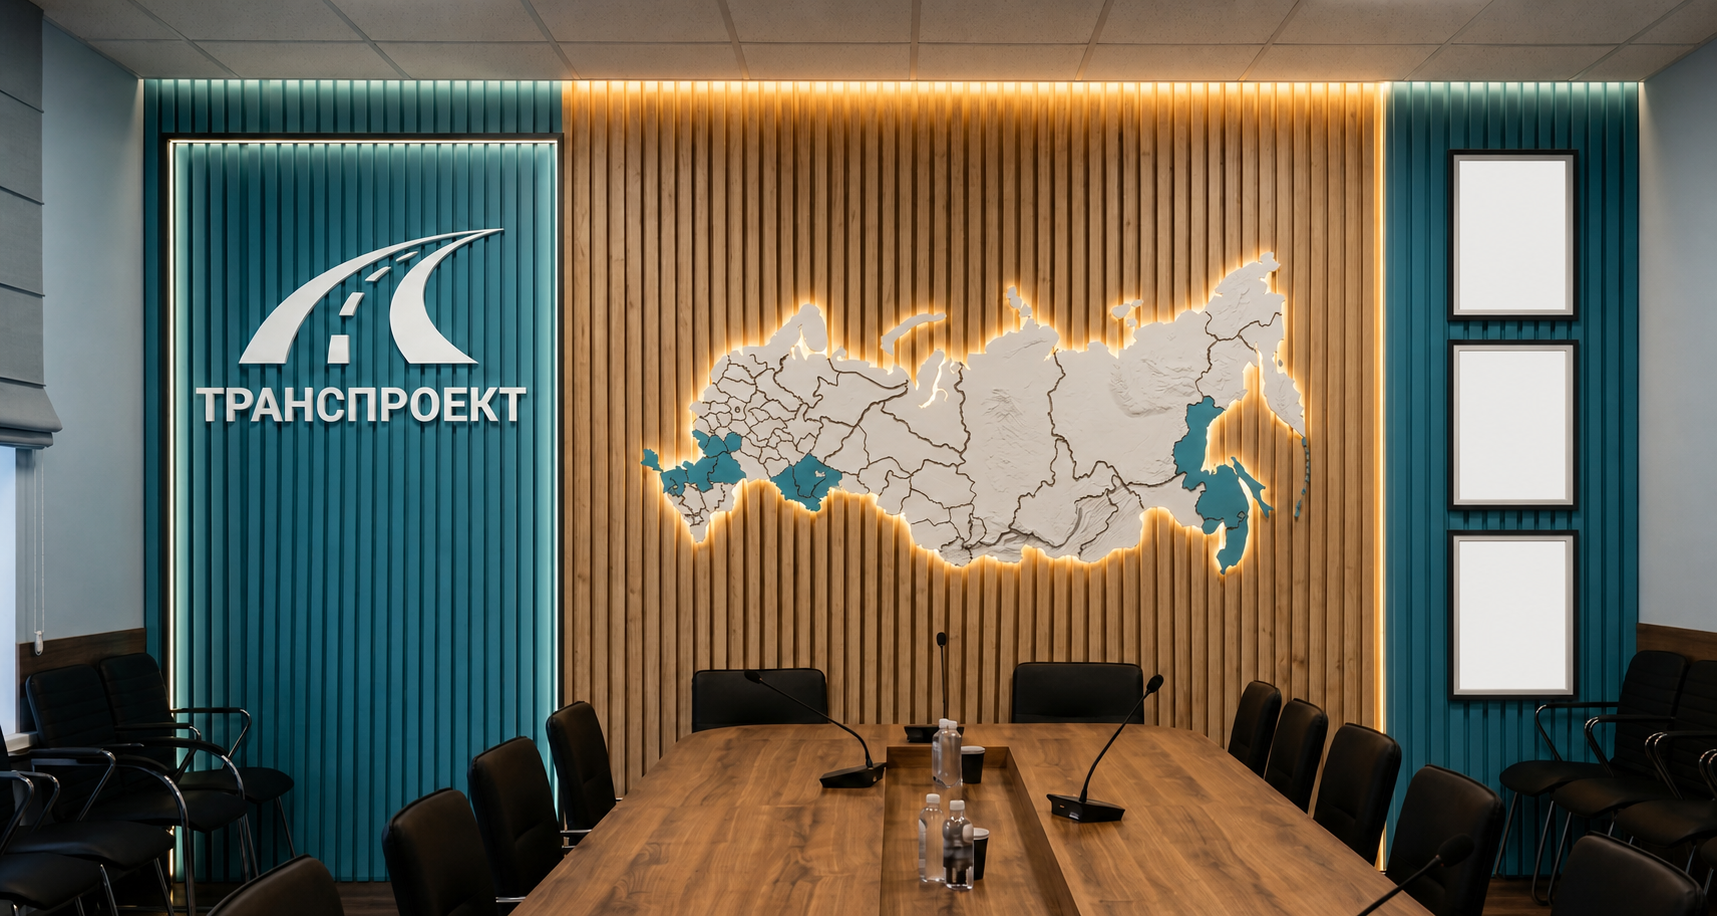
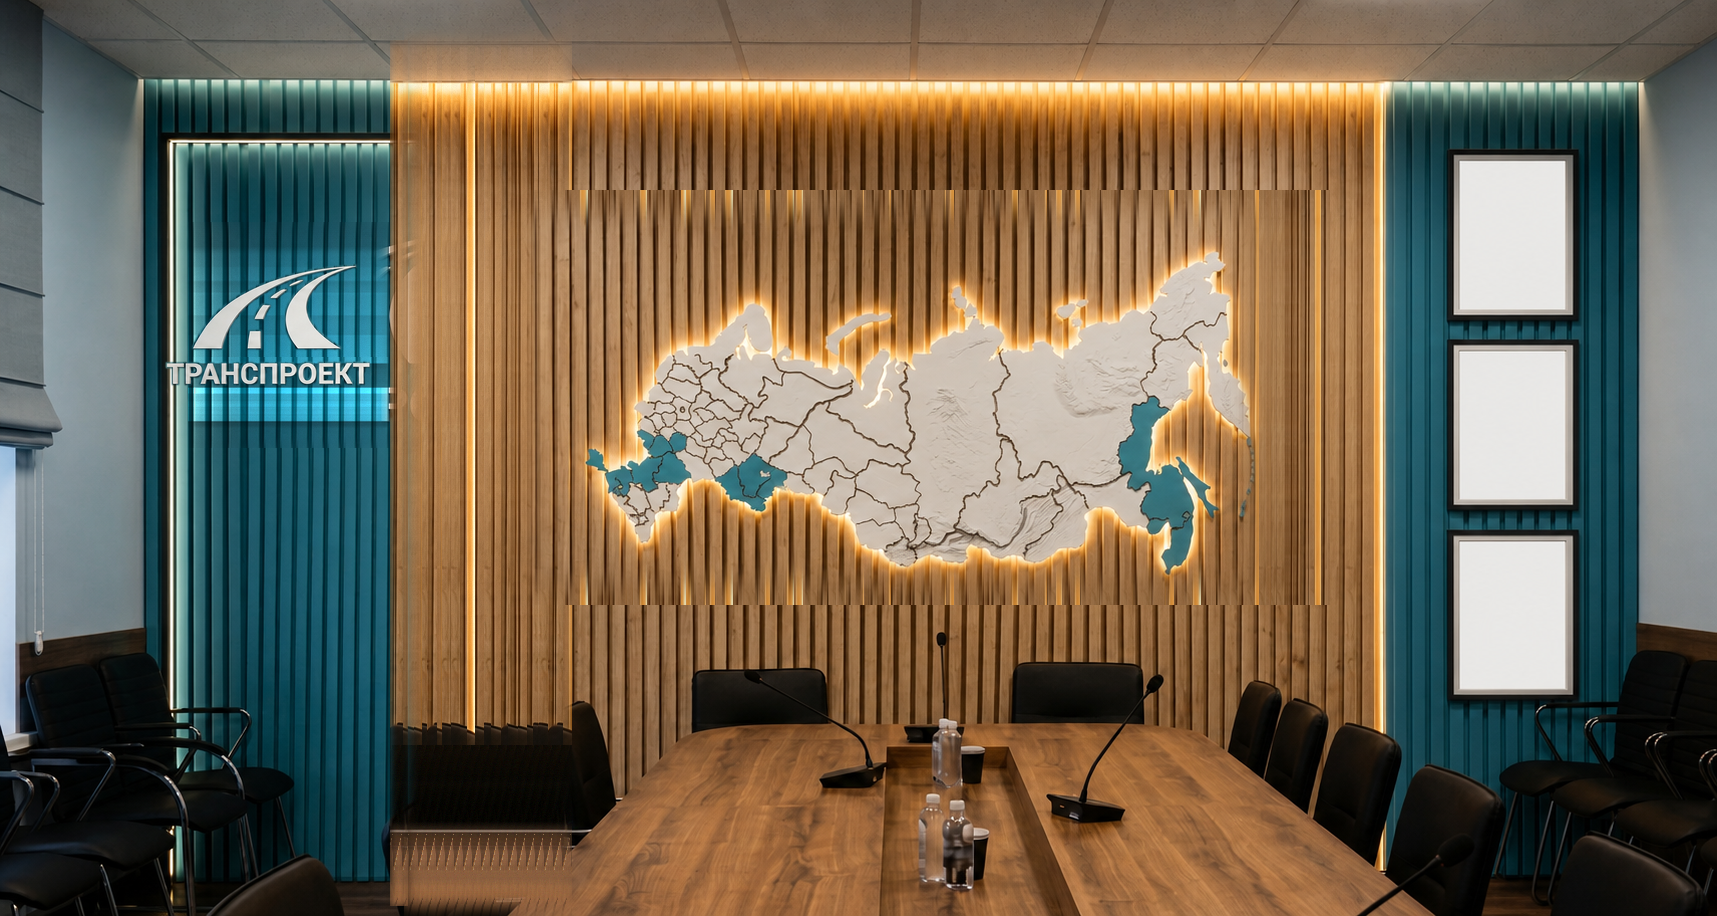
Рекомпоновка стены: teal-рейки слева/справа одинаковой ширины, логотип уменьшен, карта отцентрирована (ai-base-room, ai-base-room2)

Changed region(s): [[0.0926, 0.0306, 0.7717, 1.0]]

diff --git a/tools/fix_wall_h2.py b/tools/fix_wall_h2.py
@@ -1,0 +1,143 @@
+# -*- coding: utf-8 -*-
+"""Рекомпоновка стены зала 2 (ai-base-room2.png):
+левая teal-рейка сужается 408 -> 251 px (как правая), логотип масштабируется,
+деревянная зона расширяется, карта центрируется по свободной части стены."""
+import os
+import numpy as np
+from PIL import Image, ImageDraw, ImageFilter
+
+ROOT = os.path.dirname(os.path.dirname(os.path.abspath(__file__)))
+SRC = os.path.join(ROOT, 'ai-base-room2.png')
+OUT = os.path.join(ROOT, 'ai-base-room2-wall2.png')
+rng = np.random.default_rng(7)
+
+im = Image.open(SRC).convert('RGB')
+W, H = im.size
+a = np.array(im).copy()
+
+def feathered_rect(w, h, box, feather=8, invert=False):
+    m = Image.new('L', (w, h), 255 if invert else 0)
+    d = ImageDraw.Draw(m)
+    d.rectangle(box, fill=0 if invert else 255)
+    return m.filter(ImageFilter.GaussianBlur(feather))
+
+def paste_band(base_px, src_x0, src_x1, dst_x0, y0=40, y1=906, feather=4):
+    """копия вертикальной полосы (LED-борт) с мягкой стыковкой по краям"""
+    band = np.array(im)[y0:y1, src_x0:src_x1].copy()
+    w = src_x1 - src_x0
+    ap = Image.new('L', (W, H), 0)
+    dd = ImageDraw.Draw(ap)
+    dd.rectangle([dst_x0, y0, dst_x0 + w, y1], fill=255)
+    ap = ap.filter(ImageFilter.GaussianBlur(feather))
+    tile = im.crop((src_x0, y0, src_x1, y1))
+    im.paste(tile, (dst_x0, y0), ap.crop((dst_x0, y0, dst_x0 + w, y1)))
+
+# ---------- 1) заливка нового дерева слева: 404..566 ----------
+XW0, XW1 = 404, 572
+WIN = (1338, 1383)      # чистое дерево справа от карты
+LOGO = (188, 222, 527, 428)
+MAP_CUT = (565, 190, 1330, 605)
+MAP_DX = -55
+LED_OLD, LED_NEW = (550, 568), (390, 408)
+
+win_w = WIN[1] - WIN[0]
+tile_rows = np.array(im)[:, WIN[0]:WIN[1]].astype(float)
+# столбец за столбцом случайные связные куски 5-10 px из окна — убивает ступенчатые повторы
+band = np.zeros((tile_rows.shape[0], XW1 - XW0, 3))
+pos = 0
+while pos < XW1 - XW0:
+    chunk = int(rng.integers(5, 11))
+    src0 = int(rng.integers(0, max(1, win_w - chunk)))
+    take = min(chunk, XW1 - XW0 - pos)
+    band[:, pos:pos + take] = tile_rows[:, src0:src0 + take]
+    scale = 1 + rng.normal(0, 0.015)
+    band[:, pos:pos + take] *= scale
+    pos += take
+# тон: подгон яркости окна под соседнее дерево слева
+arr0 = np.array(im).astype(float)
+src_m = band[100:770].mean()
+ref_m = arr0[100:210, 576:620].mean()
+band = band * (ref_m / src_m)
+tiled = np.clip(band * (1 + rng.normal(0, 0.008, size=band.shape[:2])[..., None]), 0, 255).astype('uint8')
+ref = np.array(im)[40:906, 573:600, :].astype(float)
+ref_row = ref.mean(axis=1)                       # (866,3) тон соседнего дерева по строкам
+win_row = rowmed_win = np.array(im)[40:906, WIN[0]:WIN[1], :].astype(float)
+win_mean = win_row.mean(axis=1)
+win_var = win_row - win_mean[:, None, :]
+for y in range(745, tiled.shape[0]):
+    yy = max(0, min(ref_row.shape[0] - 1, y - 40))
+    base = ref_row[yy]
+    shim_row = win_var[min(yy, win_var.shape[0] - 1)]
+    shimmer = shim_row[(np.arange(XW1 - XW0) * 5 + y) % shim_row.shape[0]]
+    tiled[y, :, :] = np.clip(base[None, :] + 0.3 * shimmer +
+                             rng.normal(0, 2.0, size=(XW1 - XW0, 3)), 0, 255)
+tt = Image.fromarray(tiled)
+mask = feathered_rect(W, H, [XW0, 40, XW1, 906], feather=7)
+im.paste(tt, (XW0, 0), mask.crop((XW0, 0, XW1, H)))
+
+# ---------- 2) новый LED-борт на x=390..408 ----------
+paste_band(None, LED_OLD[0], LED_OLD[1], LED_NEW[0])
+
+# ---------- 3) стирание логотипа: teal из чистых строк ----------
+lx0, ly0, lx1, ly1 = LOGO[0], LOGO[1], min(LOGO[2], LED_NEW[0] - 1), 448
+arr = np.array(im).astype(float)
+ref = arr[505:640, lx0:lx1]          # чистый teal ниже текста
+col_med = np.median(ref, axis=0)     # цвет колонки
+slat_pat = ref - col_med[None, :]    # паттерн реек по y
+hrect = ly1 - ly0
+repv = int(np.ceil(hrect / ref.shape[0])) + 1
+pat = np.tile(slat_pat, (repv, 1, 1))[:hrect] * 0.85
+prof = arr[120:860, lx0:lx1].mean(axis=(1, 2))
+g = prof / prof[:150].mean()
+gy = np.interp(np.arange(ly0, ly1), np.arange(120, 860), g)
+fill = col_med[None, :, :] * gy[:, None, None] + pat
+fill = np.clip(fill * (1 + rng.normal(0, 0.01, size=fill.shape[:2])[..., None]), 0, 255).astype('uint8')
+fim = Image.fromarray(fill)
+m2 = feathered_rect(W, H, [lx0, ly0, lx1, ly1], feather=7)
+im.paste(fim, (lx0, ly0), m2.crop((lx0, ly0, lx1, ly1)))
+
+# ---------- 4) логотип: вырезать по белой маске, уменьшить, вклеить ----------
+lg = np.array(im).astype(int)  # ВАЖНО: логотип уже стёрт — берём из ОРИГИНАЛА
+orig = np.array(Image.open(SRC).convert('RGB')).astype(int)
+reg = orig[LOGO[1]:LOGO[3], LOGO[0]:LOGO[2]]
+white = (reg.min(axis=2) > 142) & ((reg.max(axis=2) - reg.min(axis=2)) < 48)
+white = white | (reg.mean(axis=2) > 200)
+lam = Image.fromarray((white * 255).astype('uint8'))
+lam = lam.filter(ImageFilter.MaxFilter(5)).filter(ImageFilter.GaussianBlur(1.2))
+limg = Image.open(SRC).convert('RGB').crop(LOGO)
+sc = 251 / 408.0
+nw, nh = int(limg.width * sc), int(limg.height * sc)
+limg_r = limg.resize((nw, nh), Image.LANCZOS)
+lam_r = lam.resize((nw, nh), Image.LANCZOS)
+cx, cy = 266, 325
+px, py = int(cx - nw / 2), int(cy - nh / 2)
+im.paste(limg_r, (px, py), lam_r)
+
+# ---------- 5) карта: вырезать с ореолом, сдвинуть, заполнить правый след ----------
+mcut = MAP_CUT
+mreg = im.crop(mcut)  # включает glow
+mm = feathered_rect(im.width, im.height, list(mcut), feather=20)
+# мягкая альфа вырезки: рисуем на отдельном холсте через маску
+bg = im.copy()
+# заполнить исходное место дерева из окна случайными связными кусками
+vacw = mcut[2] - mcut[0]
+vband = np.zeros((mcut[3] - mcut[1], vacw, 3))
+pos = 0
+vwin = np.array(im)[mcut[1]:mcut[3], WIN[0]:WIN[1]].astype(float)
+while pos < vacw:
+    chunk = int(rng.integers(5, 11))
+    src0 = int(rng.integers(0, max(1, win_w - chunk)))
+    take = min(chunk, vacw - pos)
+    vband[:, pos:pos + take] = vwin[:, src0:src0 + take]
+    pos += take
+vband *= (np.array(im)[mcut[1]:mcut[3], 576:610].astype(float).mean() / vband.mean())
+im.paste(Image.fromarray(np.clip(vband, 0, 255).astype('uint8')), (mcut[0], mcut[1]))
+# вклеить карту со сдвигом
+imm = Image.new('L', (mreg.width, mreg.height), 0)
+ImageDraw.Draw(imm).rectangle([20, 20, mreg.width - 21, mreg.height - 21], fill=255)
+imm = imm.filter(ImageFilter.GaussianBlur(14))
+im = im.convert('RGB')
+im.paste(mreg, (mcut[0] + MAP_DX, mcut[1]), imm)
+
+im.save(OUT, 'PNG')
+print('saved', OUT)

diff --git a/tools/fix_wall_h1.py b/tools/fix_wall_h1.py
@@ -1,0 +1,148 @@
+# -*- coding: utf-8 -*-
+"""Рекомпоновка стены зала 1 (ai-base-room.png), v2:
+левая teal-рейка сужается до ширины правой (177px), вся зона панели собирается
+синтезом из реальных профилей, логотип уменьшается, дерево расширяется, карта центрируется."""
+import os
+import numpy as np
+from PIL import Image, ImageDraw, ImageFilter
+
+ROOT = os.path.dirname(os.path.dirname(os.path.abspath(__file__)))
+SRC = os.path.join(ROOT, 'ai-base-room.png')
+OUT = os.path.join(ROOT, 'ai-base-room-wall2.png')
+rng = np.random.default_rng(11)
+
+im = Image.open(SRC).convert('RGB')
+W, H = im.size
+orig_im = im.copy()
+arr0 = np.array(orig_im).astype(float)
+
+ZX0, ZX1 = 150, 313        # зона левой панели (синтез)
+LED_OLD, LED_NEW = (429, 443), (313, 327)
+XW0, XW1 = 327, 443
+Y0, Y1 = 150, 896
+LOGO = (198, 214, 440, 380)
+MAP_CUT = (316, 190, 918, 512)
+MAP_DX = -48
+LOGO_SCALE = 0.62
+LOGO_CENTER = (232, 296)
+
+
+def feathered_rect(w, h, box, feather=8):
+    m = Image.new('L', (w, h), 0)
+    ImageDraw.Draw(m).rectangle(box, fill=255)
+    return m.filter(ImageFilter.GaussianBlur(feather))
+
+
+# ---------- 0) чистый LED-борт (от старых фрагментов) ----------
+sb = orig_im.crop((LED_OLD[0], Y0, LED_OLD[1], Y1))
+clean = sb.crop((0, 480 - Y0, LED_OLD[1] - LED_OLD[0], 560 - Y0))
+clean = clean.resize((LED_OLD[1] - LED_OLD[0], 402 - 208), Image.LANCZOS)
+sb.paste(clean, (0, 208 - Y0))
+
+# ---------- 1) синтез teal-панели ----------
+# поперечный профиль: реальная строка y=550
+P = arr0[550, ZX0:ZX1, :].copy()                    # (163,3)
+# вертикальный градиент: колонки 160..300 без логотипа — берём 3 колонки,
+# интерполируем разрыв в строках логотипа
+cols = [170, 250, 290]
+V = np.zeros((H, 3))
+prof = arr0[:, cols, :].mean(axis=1)                # (H,3)
+logo_rows = np.arange(210, 405)
+ok_top = prof[160:205].mean(axis=0)
+ok_bot = prof[408:600].mean(axis=0)
+for y in range(H):
+    if y < 210:
+        V[y] = prof[y]
+    elif y < 405:
+        t = (y - 210) / 195.0
+        tt = t * t * (3 - 2 * t)
+        V[y] = ok_top * (1 - tt) + ok_bot * tt
+    elif y < 660:
+        V[y] = prof[y]
+    else:
+        V[y] = prof[640:660].mean(axis=0) * 0.96
+# нормировка, чтобы zone(x,550)=P(x)
+norm = V[550].copy()
+zone = P[None, :, :] * (V[Y0:Y1] / norm[None, :])[:, None, :]
+zone *= (1 + rng.normal(0, 0.009, size=zone.shape[:2])[..., None])
+zone = np.clip(zone, 0, 255).astype('uint8')
+mz = feathered_rect(W, H, [ZX0, Y0, ZX1, Y1], feather=6)
+im.paste(Image.fromarray(zone), (ZX0, Y0), mz.crop((ZX0, Y0, ZX1, Y1)))
+
+# вернуть кресла нижней зоны поверх синтеза (тёмные пиксели оригинала)
+a1 = np.array(im).astype(int)
+a0i = np.array(orig_im).astype(int)
+chair = (a0i.max(axis=2) < 58)
+chair[:620, :] = False
+chair[:, ZX1 + 2:] = False
+chair[:, :ZX0 - 2] = False
+cm = Image.fromarray((chair * 255).astype('uint8')).filter(ImageFilter.GaussianBlur(1.5))
+im.paste(orig_im, (0, 0), cm)
+
+# ---------- 2) LED-борт ----------
+mled = feathered_rect(W, H, [LED_NEW[0], Y0, LED_NEW[1], Y1], feather=4)
+im.paste(sb, (LED_NEW[0], Y0), mled.crop((LED_NEW[0], Y0, LED_NEW[1], Y1)))
+
+# ---------- 3) деревянная полоса ----------
+arr = np.array(im).astype(float)
+prow = arr0[204:218, 443:900, :].mean(axis=0)
+pat_len = prow.shape[0]
+colc = arr0[:, 448:455, :].mean(axis=1)
+ref_rgb = colc / colc[208:222].mean(axis=0)
+
+
+def wood_band(x0, x1, y0, y1):
+    bw = x1 - x0
+    bh = y1 - y0
+    idx = (np.arange(x0, x1) - 443) % pat_len
+    Pw = prow[idx]
+    G = ref_rgb[y0:y1]
+    band = Pw[None, :, :] * G[:, None, :]
+    y_probe = slice(28, 64)
+    refp = arr0[y0 + 28:y0 + 64, 460:610, :].mean(axis=(0, 1))
+    gotp = band[y_probe][:, :].mean(axis=(0, 1)) if x1 <= 900 else band[y_probe][:, :80].mean(axis=(0, 1))
+    k = np.clip(refp / np.maximum(gotp, 1), 0.5, 1.6) * np.array([0.97, 0.95, 0.93])
+    band = band * k[None, None, :]
+    band *= (1 + rng.normal(0, 0.010, size=(bh, bw, 1)))
+    return np.clip(band, 0, 255).astype('uint8')
+
+
+band = wood_band(XW0, XW1, Y0, Y1)
+mw = feathered_rect(W, H, [XW0, Y0, XW1, Y1], feather=7)
+im.paste(Image.fromarray(band), (XW0, Y0), mw.crop((XW0, Y0, XW1, Y1)))
+
+# ---------- 4) логотип ----------
+reg = arr0[LOGO[1]:LOGO[3], LOGO[0]:LOGO[2]].astype(int)
+white = (reg.min(axis=2) > 142) & ((reg.max(axis=2) - reg.min(axis=2)) < 48)
+white = white | (reg.mean(axis=2) > 200)
+lam = Image.fromarray((white * 255).astype('uint8'))
+lam = lam.filter(ImageFilter.MaxFilter(5)).filter(ImageFilter.GaussianBlur(1.2))
+limg = orig_im.crop(LOGO)
+nw, nh = int(limg.width * LOGO_SCALE), int(limg.height * LOGO_SCALE)
+im.paste(limg.resize((nw, nh), Image.LANCZOS),
+         (int(LOGO_CENTER[0] - nw / 2), int(LOGO_CENTER[1] - nh / 2)),
+         lam.resize((nw, nh), Image.LANCZOS))
+
+# ---------- 5) карта ----------
+mcut = MAP_CUT
+mreg = im.crop(mcut)
+vx0 = max(mcut[0], XW1)
+vac = wood_band(vx0, min(mcut[2], 908), mcut[1], mcut[3])
+im.paste(Image.fromarray(vac), (vx0, mcut[1]))
+mled2 = feathered_rect(W, H, [LED_NEW[0], mcut[1], LED_NEW[1], mcut[3]], feather=4)
+im.paste(sb.crop((0, mcut[1] - Y0, LED_NEW[1] - LED_NEW[0], mcut[3] - Y0)),
+         (LED_NEW[0], mcut[1]), mled2.crop((LED_NEW[0], mcut[1], LED_NEW[1], mcut[3])))
+# teal-хвост угла 908..927
+tt = np.array(im)
+for y in range(mcut[1], mcut[3]):
+    rowv = tt[y, min(930, W):min(934, W)].astype(float)
+    lo = np.percentile(rowv.reshape(-1, 3), 40, axis=0)
+    tt[y, 908:927] = np.clip(lo + rng.normal(0, 1.0, size=(3,)), 0, 255)
+im = Image.fromarray(tt)
+imm = Image.new('L', (mreg.width, mreg.height), 0)
+ImageDraw.Draw(imm).rectangle([22, 22, mreg.width - 23, mreg.height - 23], fill=255)
+imm = imm.filter(ImageFilter.GaussianBlur(16))
+im.paste(mreg, (mcut[0] + MAP_DX, mcut[1]), imm)
+
+im.save(OUT, 'PNG')
+print('saved', OUT)
